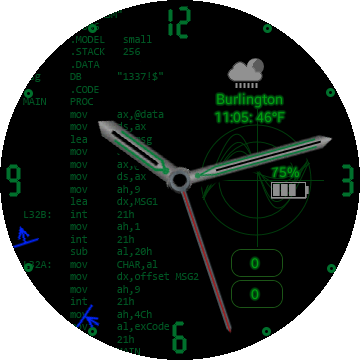
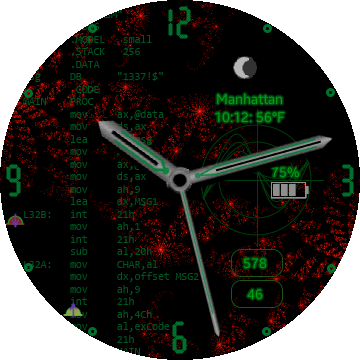
Basic date and time to sunset/rise display. Updated preview, but it doesn't have the above

diff --git a/src/Face.cpp b/src/Face.cpp
@@ -20,6 +20,35 @@
 #define WATCH_ERR(...)
 #endif
 
+static const char* Months[] = {
+		"Nul",
+		"Jan",
+		"Feb",
+		"Mar",
+		"Apr",
+		"May",
+		"Apr",
+		"May",
+		"Jun",
+		"Jul",
+		"Aug",
+		"Sep",
+		"Oct",
+		"Nov",
+		"Dec"
+};
+
+static const char* Weekdays[] = {
+		"Nul",
+		"Sun",
+		"Mon",
+		"Tue",
+		"Wed",
+		"Thu",
+		"Fri",
+		"Sat"
+};
+
 Face::Face(int width, int height):
 	window_(NULL),
 	bg_(NULL),
@@ -50,7 +79,9 @@ Face::Face(int width, int height):
 	longitude_(0),
 	latitude_(0),
 	locationState_(-1),
-	locationStateRequested_(-1)
+	locationStateRequested_(-1),
+	sunrise_(-1),
+	sunset_(-1)
 {
 }
 
@@ -194,12 +225,13 @@ void Face::updateWeather()
 		data_get_resource_path(weather->Icon(), imagePath, sizeof(imagePath));
 		elm_image_file_set(weatherIcon_, imagePath, NULL);
 
-		moveSunIcon(sunriseIcon_, weather->Sunrise());
+		sunrise_ = weather->Sunrise();
+		sunset_ = weather->Sunset();
+		moveSunIcon(sunriseIcon_, sunrise_);
 		evas_object_show(sunriseIcon_);
 
-		moveSunIcon(sunsetIcon_, weather->Sunset());
+		moveSunIcon(sunsetIcon_, sunset_);
 		evas_object_show(sunsetIcon_);
-
 	} else {
 		WATCH_ERR("%s", "jsnerr");
 	}
@@ -344,6 +376,7 @@ void Face::Tick(watch_time_h time)
 
 	moveHands(time);
 	updateTextFields();
+	updateDate(time);
 }
 
 bool Face::ToggleAmbient(bool ambient)
@@ -605,6 +638,55 @@ void Face::moveHands(watch_time_h time)
 	degree += msec * SEC_ANGLE / 1000.0;
 	rotateHand(handSec_, degree, (BASE_WIDTH / 2), (BASE_HEIGHT / 2));
 	rotateHand(handsSecShadow_, degree,  (BASE_WIDTH / 2), (BASE_HEIGHT / 2) + HANDS_SEC_SHADOW_PADDING);
+}
+
+void Face::updateDate(watch_time_h time)
+{
+	char fullDateStr[256];
+	int hour, minute, month, day, weekDay;
+	watch_time_get_month(time, &month);
+	watch_time_get_day(time, &day);
+	watch_time_get_day_of_week(time, &weekDay);
+	sprintf(fullDateStr, "%s %s %d", Weekdays[weekDay], Months[month], day);
+	if (sunset_ == -1 || sunrise_ == -1) {
+		elm_object_part_text_set(layout_, "txt.date", fullDateStr);
+		return;
+	}
+	struct tm sunsetInfo;
+	sunsetInfo = *localtime(&sunset_);
+	struct tm sunriseInfo;
+	sunriseInfo = *localtime(&sunrise_);
+	bool beforeSunrise = false;
+	watch_time_get_hour24(time, &hour);
+	watch_time_get_minute(time, &minute);
+	if (hour > sunsetInfo.tm_hour || hour < sunriseInfo.tm_hour) {
+		beforeSunrise = true;
+	} else if (hour == sunsetInfo.tm_hour && minute > sunsetInfo.tm_min) {
+		beforeSunrise = true;
+	} else if (hour == sunriseInfo.tm_hour && minute <= sunriseInfo.tm_min) {
+		beforeSunrise = true;
+	}
+	struct tm* nextEvent = beforeSunrise ? &sunriseInfo : &sunsetInfo;
+
+	int dHour = nextEvent->tm_hour - hour;
+	int dMinute = nextEvent->tm_min - minute;
+	if (dMinute < 0) {
+		dMinute += 60;
+		--dHour;
+	}
+	if (dHour < 0) {
+		dHour += 24;
+	}
+
+	const char* nextEventStr = beforeSunrise ? "Sunrise" : "Sunset";
+	char fullNextEventStr[128] = {0};
+	if (dHour == 0 && dMinute == 0) {
+		sprintf(fullNextEventStr, "<br/>%s is now", nextEventStr);
+	} else {
+		sprintf(fullNextEventStr, "<br/>%s in<br/>%.2d:%.2d", nextEventStr, dHour, dMinute);
+	}
+	strcat(fullDateStr, fullNextEventStr);
+	elm_object_part_text_set(layout_, "txt.date", fullDateStr);
 }
 
 void Face::updateTextFields()

diff --git a/inc/Face.h b/inc/Face.h
@@ -53,6 +53,8 @@ private:
 	void updateTextFields();
 	void updateTextField(const char* fieldId, int value);
 
+	void updateDate(watch_time_h time);
+
 	static bool weatherTimerFunc(void* data);
 	void onWeatherTimer();
 
@@ -106,6 +108,8 @@ private:
 	int locationStateRequested_;
 
 	list<string> errors_;
+	time_t sunrise_;
+	time_t sunset_;
 };
 
 #endif /* FACE_H_ */
